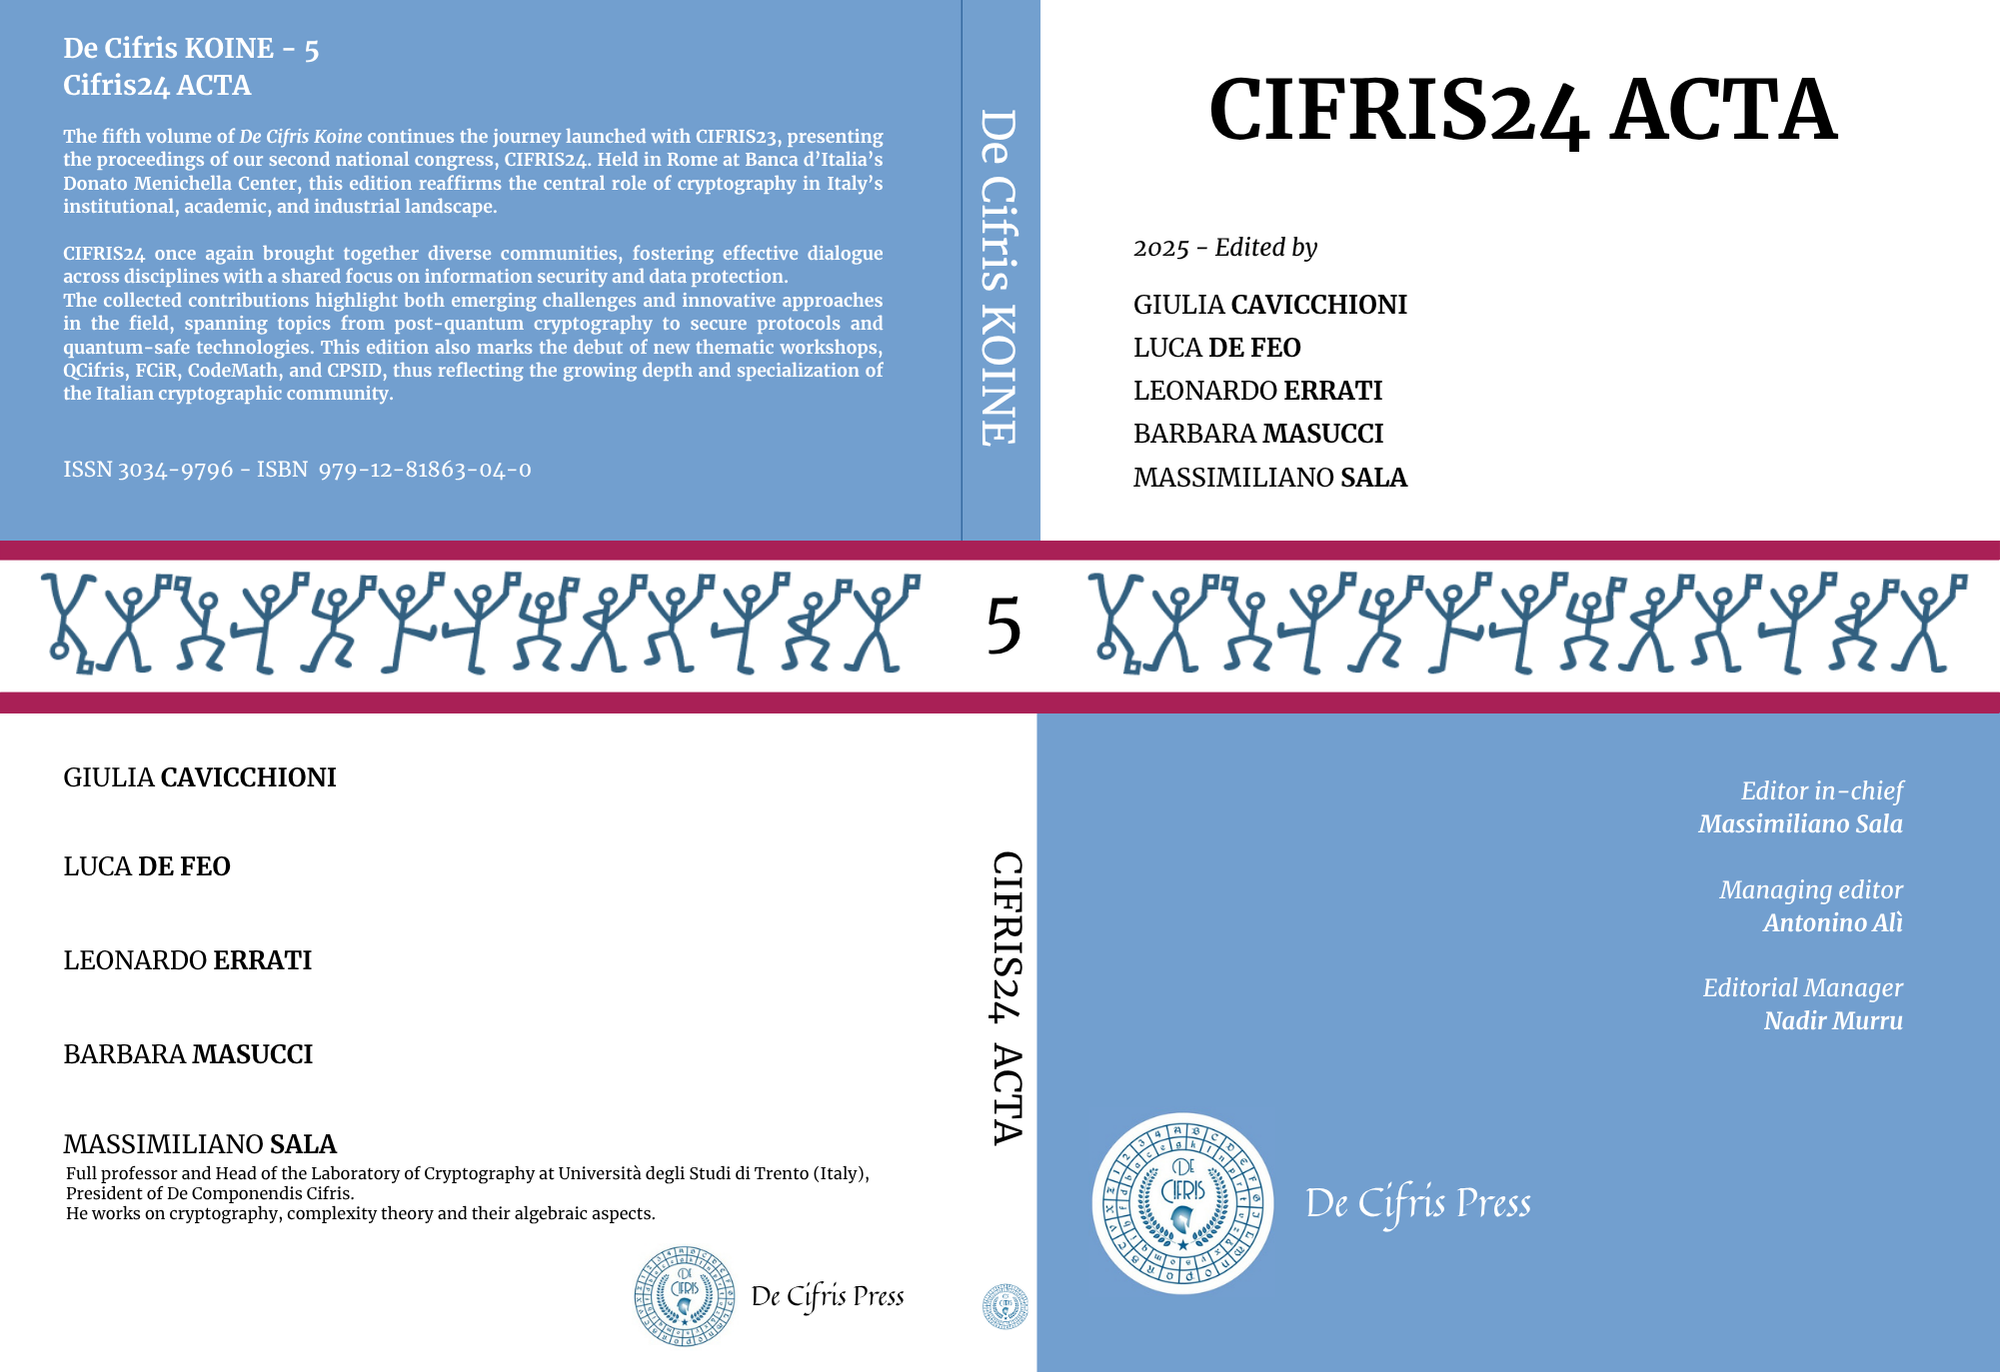
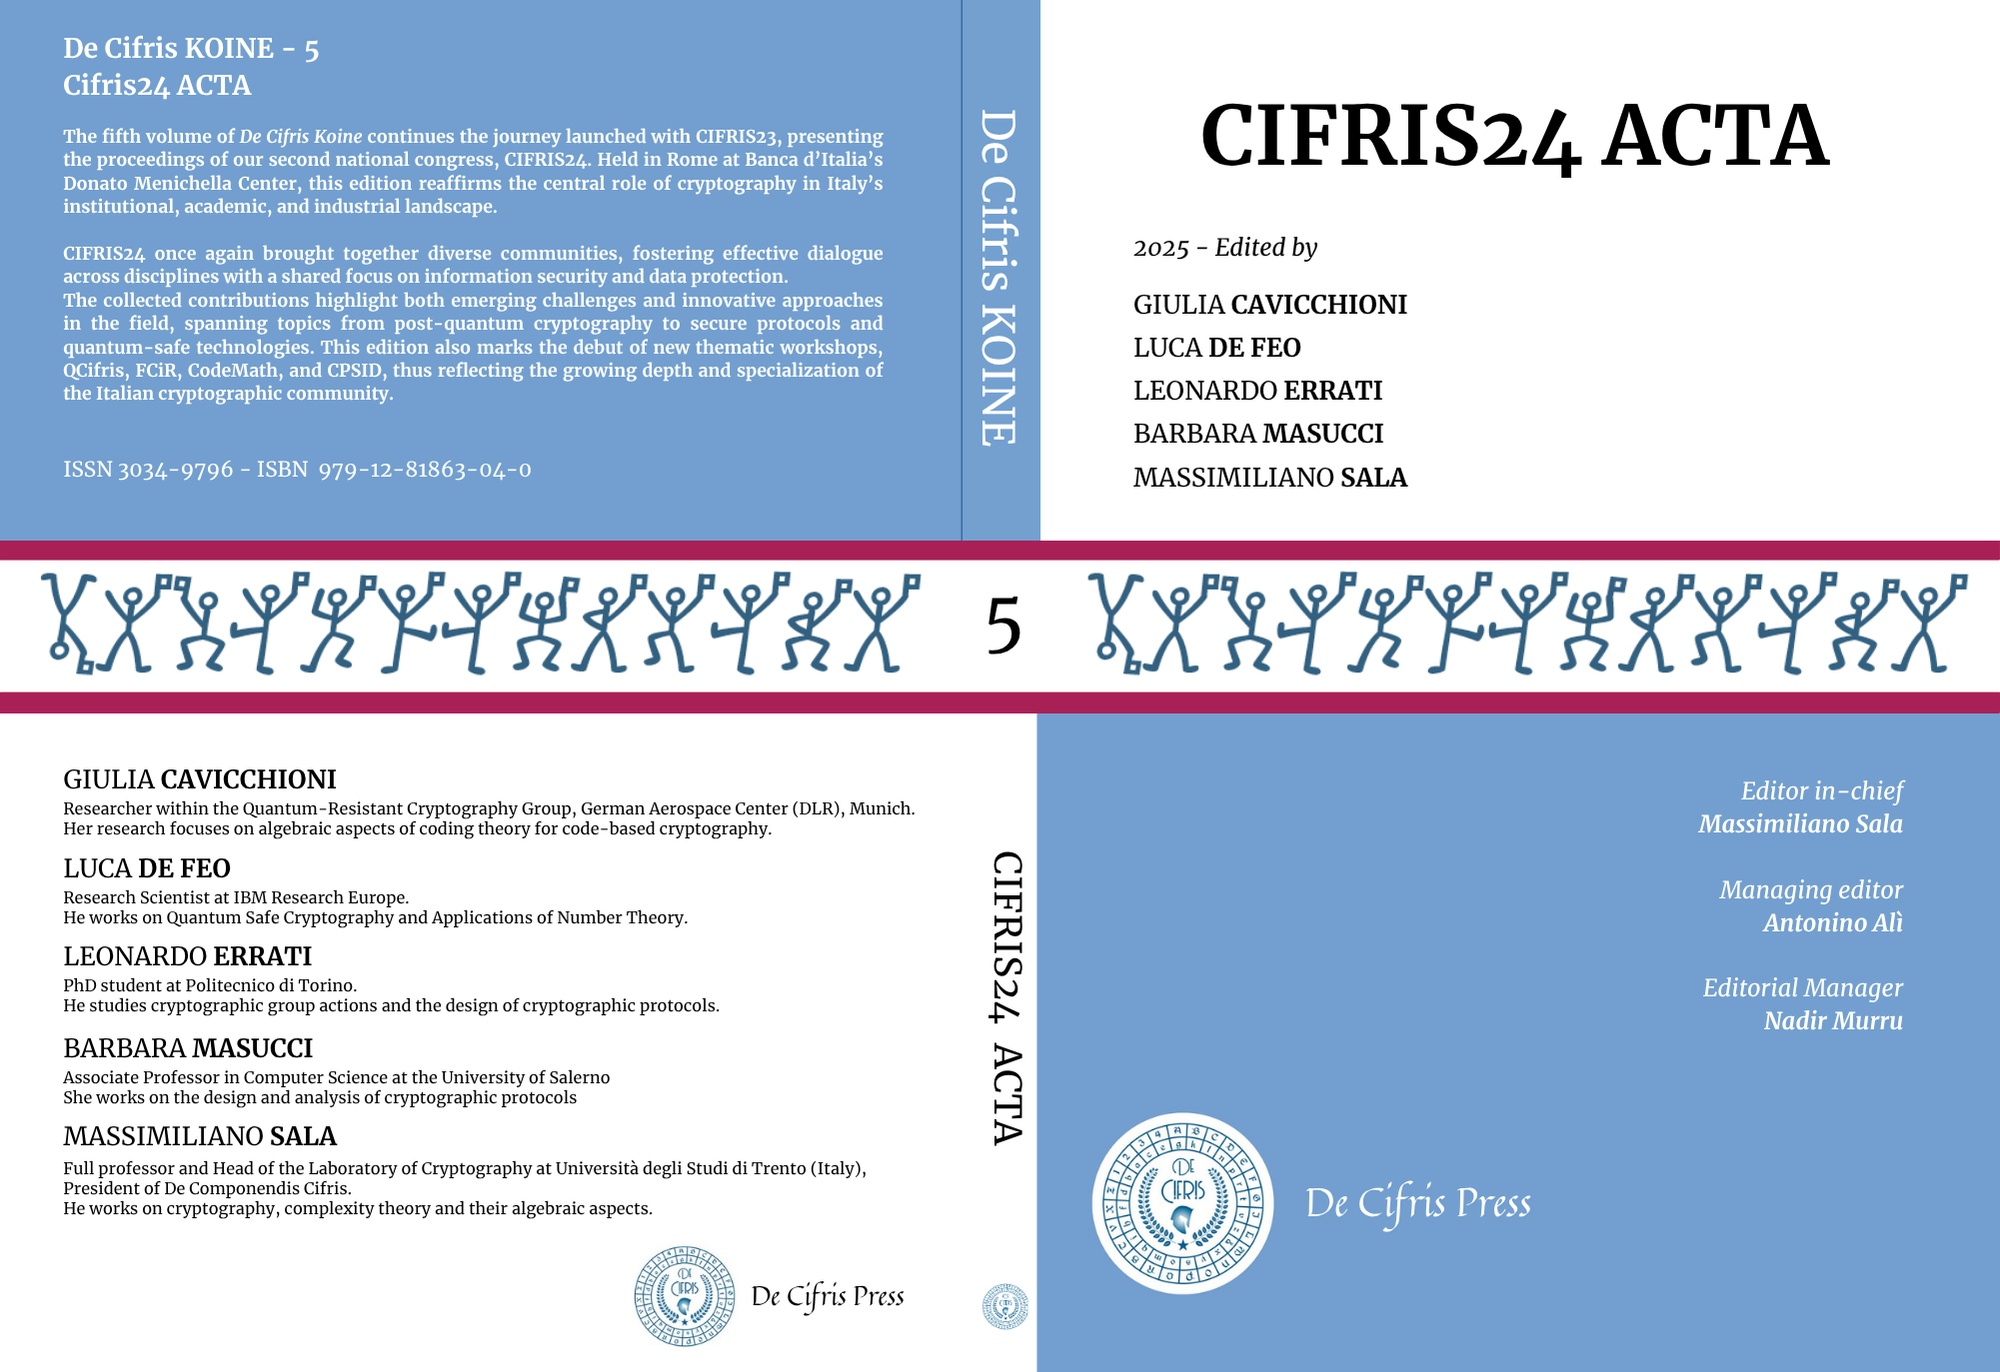
ADD: koine5 completed

diff --git a/src/app/attivita/editoria/koine/vol5/vol5.component.html b/src/app/attivita/editoria/koine/vol5/vol5.component.html
@@ -2,7 +2,7 @@
     <div class="list_view">
         <img src="../../../../../assets/images/koine/Vol5 - CIFRIS24 ACTA.png" style="width: 40%;padding-right:20px;" />
         <div class="doi-item">
-            <p class="title">CIFRIS25 ACTA</p>
+            <p class="title">CIFRIS24 ACTA</p>
             <p class="desc">De Cifris Press, February 2025</p>
             <p class="desc">ISBN: 979-12-81863-04-0</p>
             <p class="desc">ISSN: 3034-9796</p>
@@ -28,7 +28,7 @@
           <span>, </span>
           }
           <span>{{ author.name }} {{ author.surname }}</span>
-        }J
+        }
       }
     </div>
 </div>

diff --git a/src/app/attivita/editoria/koine/articles-and-volumes/articles-and-volumes.component.html b/src/app/attivita/editoria/koine/articles-and-volumes/articles-and-volumes.component.html
@@ -9,6 +9,16 @@
 
 <details class="collapsible">
 	<summary class="collapsible-btn">
+		<b>Vol. 5: CIFRIS24 ACTA</b> <span class="meta">(Feb. 2025)</span>
+		<span class="arrow">&#9660;</span>
+	</summary>
+	<div class="collapsible-content">
+		<app-vol5></app-vol5>
+	</div>
+</details>
+
+<details class="collapsible">
+	<summary class="collapsible-btn">
 		<b>Vol. 4: DE CIFRIS PROTOCOLS</b> <span class="meta">(Oct. 2024)</span>
 		<span class="arrow">&#9660;</span>
 	</summary>

diff --git a/src/app/attivita/editoria/koine/koine.component.html b/src/app/attivita/editoria/koine/koine.component.html
@@ -18,7 +18,7 @@
 					</button>
 				</li>
 				<li>
-					<button mat-button [routerLink]="['/koine/vol4']" routerLinkActive="active"
+					<button mat-button [routerLink]="['/koine/vol5']" routerLinkActive="active"
 						(click)="toggleSidebar()" [routerLinkActiveOptions]="{exact: true}"
 						class="sidebar-image-button">
 						<mat-icon>schedule</mat-icon>
